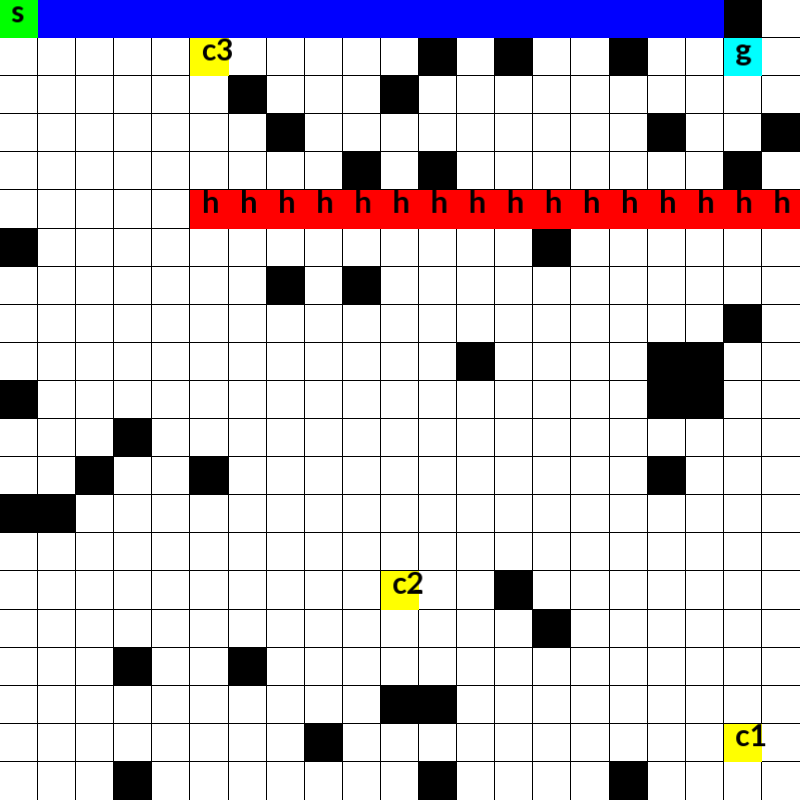
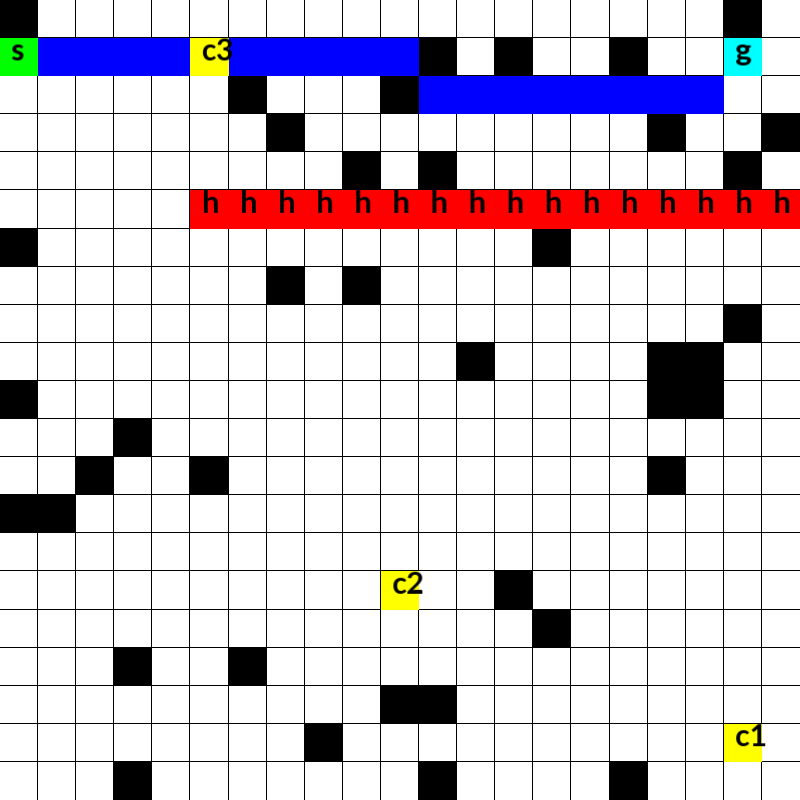
Bug with a starting positiion is fixed

Changed region(s): [[0.0, 0.0, 0.9062, 0.1562]]

diff --git a/LTLStuff/TEGProblem.cpp b/LTLStuff/TEGProblem.cpp
@@ -238,6 +238,7 @@ bdd TEGProblem::props_to_bdd(const set<string>& props) {
 }
 
 vector<ProductState> TEGProblem::solve() {
+    std::cout << "solve() is called"  << endl;
     product_path_.clear();
 
     size_t dfa_start_state = dfa_->get_init_state_number();
@@ -245,6 +246,9 @@ vector<ProductState> TEGProblem::solve() {
         cerr << "ERROR: DFA has a single state. LTL formula is not descriptive enough." << endl;
         return vector<ProductState>();
     }
+
+    std::cout << "DFA start state="  << dfa_start_state << endl;
+    std::cout << "Grid start state="  << start_grid_state_ << endl;
 
     deque<ProductState> queue;
     queue.emplace_back(start_grid_state_, dfa_start_state);
@@ -255,31 +259,52 @@ vector<ProductState> TEGProblem::solve() {
     map<ProductState, vector<ProductState>> parent_map;
 
     while (!queue.empty()) {
+        std::cout << "======Queue is not empty=====" << endl;
         ProductState current_state = queue.front();
         queue.pop_front();
+
+        std::cout << "curr product state="  << current_state << endl;
 
         for (const auto& transition : product_transitions_[current_state]) {
             // check if the transition from `current_state` to `next_state` is accepting.
             ProductState next_state = transition.out_state();
-            parent_map.emplace(next_state, transition.path());
+            std::cout << "Transition leads to state="  << next_state << endl;
+            // parent_map.emplace(next_state, transition.path());
 
             // Get the next dfa state.
             size_t next_dfa_state = next_state.get_dfa_state();
 
             if (dfa_->state_is_accepting(next_dfa_state)) {
+                std::cout << "Case1: This state is accepting!! next_dfa_state=" << next_dfa_state << "Initial product_path:" << endl;
+                print_product_path();
+                parent_map.emplace(next_state, transition.path());
                 product_path_.push_back(next_state);
+                std::cout << "product_path with last state:" << endl;
+                print_product_path();
                 // Backtrack to get the full path.
                 while (parent_map.find(next_state) != parent_map.end()) {
+                    std::cout << "Backtracking for next_state = " << next_state << endl;
                     auto preceding_path = parent_map.at(next_state);
+                    if (preceding_path.size() != 1) {
+                        std::cout << "No skill actions for now!" << endl;
+                        break;
+                    }
                     product_path_.insert(product_path_.end(), preceding_path.begin(), preceding_path.end());
                     next_state = preceding_path.back();
+                    std::cout << "Parent is " << next_state << endl;
                 }
+                std::cout << "Done backtracking and reverse!!! " << endl;
                 reverse(product_path_.begin(), product_path_.end());
                 save_paths();
+                print_product_path();
                 return product_path_;
             } else if (visited.find(next_state) == visited.end()) {
+                std::cout << "Case2: This state was not visited. Add it to a queue" << endl;
                 queue.push_back(next_state);
                 visited.insert(next_state);
+                parent_map.emplace(next_state, transition.path());
+            } else {
+                std::cout << "Case3: This state was visited." << endl;
             }
         }
     }
